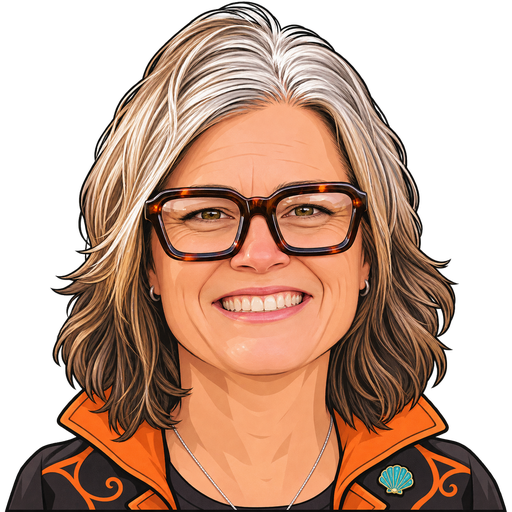
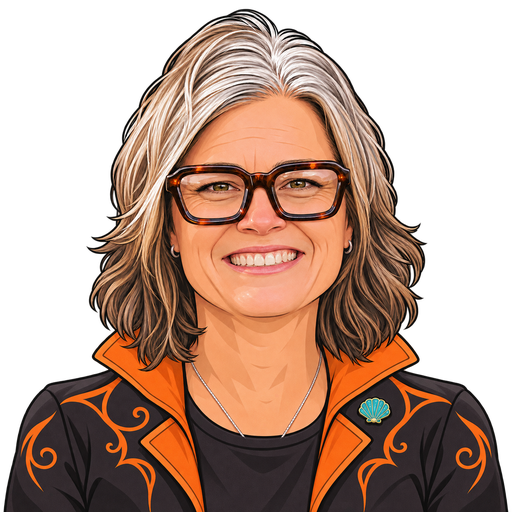
Morris Mayhem: head-and-shoulders portraits for Patty, Jeff, Mandi, Jadden; bigger result poses
New portraits from the PORTRAIT_SHOULDERS handoff (patty v7, jeff v4,
mandi v2, jadden v3) so all seven fighters share the same framing.
Victory/defeat pictures on the results screen are drawn larger.

Claude-Session: https://claude.ai/code/session_01RfvCk8BiTKNajYvhD14yr3

diff --git a/morris-mayhem/src/js/render.js b/morris-mayhem/src/js/render.js
@@ -69,12 +69,12 @@ window.MM = window.MM || {};
     else if (G.over && !f.out && (f === G.winner || (G.winTeam && f.team === G.winTeam))) frame = 'win';
     return frame && sh.S.frames[frame] ? { sh, frame } : null;
   }
-  MM.posePicture = function (def, frame, size = 160) { // a still of one pose for menus (results screen)
+  MM.posePicture = function (def, frame, size = 320) { // a still of one pose for menus (results screen)
     const u = def.ultimate, sh = u && u.sprite && sheet(u.sprite), fr = sh && sh.S.frames[frame];
     if (!fr) return null;
     const c = document.createElement('canvas'); c.width = c.height = size; const g = c.getContext('2d');
     // same scale as in a match: a standing fighter is ~70% of the card (Courtnee tallest), so sitting/lose poses stay small
-    let k = ((size * 0.7) / 1.15) * ((def.stats && def.stats.size) || 1) / sh.S.standH * ((sh.S.fscale && sh.S.fscale[frame]) || 1);
+    let k = ((size * 0.86) / 1.15) * ((def.stats && def.stats.size) || 1) / sh.S.standH * ((sh.S.fscale && sh.S.fscale[frame]) || 1);
     k = Math.min(k, (size * 0.98) / fr[2], (size * 0.98) / fr[3]);
     g.drawImage(sh.im, fr[0], fr[1], fr[2], fr[3], (size - fr[2] * k) / 2, size - fr[3] * k, fr[2] * k, fr[3] * k);
     return c.toDataURL();

diff --git a/morris-mayhem/src/styles.css b/morris-mayhem/src/styles.css
@@ -132,7 +132,7 @@ button.big.story { background: linear-gradient(#8f2bd6, #5b1a9a); color: #fff; b
 .bars div { display: flex; align-items: center; gap: 6px; } .bars i { flex: 1; height: 7px; background: #0006; border-radius: 4px; overflow: hidden; } .bars i b { display: block; height: 100%; background: linear-gradient(90deg, var(--gold), var(--orange)); }
 .stats { display: flex; gap: 14px; flex-wrap: wrap; justify-content: center; margin: 16px 0; }
 .stat { background: var(--panel); border: 3px solid var(--line); border-radius: 16px; padding: 12px 16px; text-align: center; min-width: 150px; }
-.stat img { width: 120px; height: 120px; object-fit: contain; }
+.stat img { width: clamp(130px, 17vw, 220px); height: clamp(130px, 17vw, 220px); object-fit: contain; }
 .stat.win { border-color: var(--gold); transform: scale(1.06); }
 #winner { font-size: clamp(32px, 6vw, 64px); font-weight: 900; font-style: italic; color: var(--gold); -webkit-text-stroke: 2px #1a0b2e; text-shadow: 0 5px 0 var(--purple); text-align: center; }
 #touch { position: fixed; inset: 0; pointer-events: none; display: none; }
